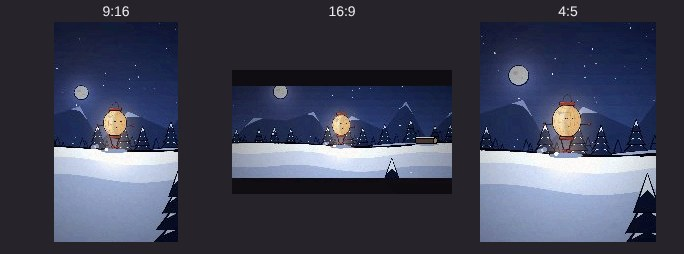
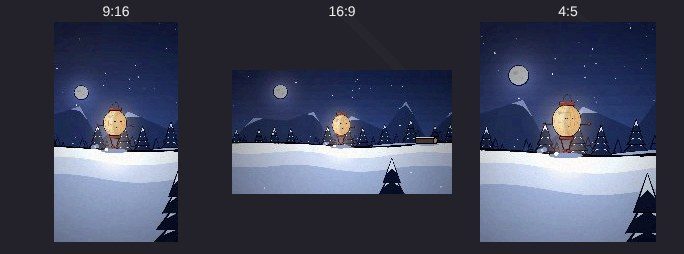
Visual quality: every style renders full frame; letterbox only on explicit request
- look.js: cinematic no longer letterboxes; no style enables letterbox by default
  (a warning if one does). Bars only via set: { letterbox: <ratio> }. Cinematic
  grade, light, vignette, texture, haze and camera polish are unchanged.
- Tests: barCheck (shared harness) FAILs letterbox bars, reported by the page or
  seen as flat near-black bands on opposite edges, in aspect_test and look_test
  (--letterbox for stories that asked for bars).
- Verified: Lumo --look=cinematic full-bleed at 16:9 (1920x1080), 9:16 and 4:5
  framing unchanged; docs, sheets and CLAUDE.md updated.

Claude-Session: https://claude.ai/code/session_012UqY2S9QTKXZvNUuYupQ2E

Changed region(s): [[0.3377, 0.689, 0.6754, 0.7717], [0.3377, 0.2756, 0.6754, 0.3583]]

diff --git a/src/look.js b/src/look.js
@@ -6,7 +6,8 @@
 //
 // Choosing (the Creative Director's call, as data):
 //   PROJECT.look = 'cinematic'                                            a style by name
-//   PROJECT.look = { style: 'watercolor', off: ['letterbox', 'haze'], set: { vignette: { amt: .2 }, glow: 1.2 } }
+//   PROJECT.look = { style: 'watercolor', off: ['haze'], set: { vignette: { amt: .2 }, glow: 1.2 } }
+//   PROJECT.look = { style: 'cinematic', set: { letterbox: 2.39 } }        bars only when a story asks for them explicitly
 //   ?look=documentary on the page, --look=documentary on render.mjs      (overrides, e.g. for before/after sheets)
 //   chooseLook({ subject: 'data' | 'product' | 'nature' | 'drama' | 'news' | 'kids' | 'abstract', characters, tone })
 // Without a look a project renders exactly as before ('classic').
@@ -14,7 +15,9 @@
 // Effects (each can be turned off by name or retuned with set):
 //   grade { contrast, saturate, brightness }   tint { color, amt }   light { amt, color, shade, from: [fx, fy] }
 //   paper (texture strength)   grain (strength)   vignette { amt, color }   haze { amt, color: 'auto' | colour }
-//   glow (× glow() strength)   shadow (× actor contact-shadow opacity)   letterbox (target ratio, wide formats only)
+//   glow (× glow() strength)   shadow (× actor contact-shadow opacity)
+//   letterbox: OFF in every style; every frame renders full-bleed, edge to edge. Only an explicit
+//     set: { letterbox: 2.39 } adds bars (target ratio, wide formats only). No style may turn it on by default.
 //   camera { handheld (px at 1080), breathe (zoom amount), shake (× landing shake) }
 const LOOK_STYLES = {
   classic: {},   // the engine's original finish: paper under the scene, grain and vignette baked together
@@ -26,7 +29,7 @@ const LOOK_STYLES = {
     paper: .06, grain: .35, vignette: { amt: .14, color: '#3E3448' }, haze: { amt: .22 }, glow: 1.1 },
   cinematic: { grade: { contrast: 1.12, saturate: .92 }, tint: { color: '#1F3D5C', amt: .16 },
     light: { amt: .3, color: '#FFB46A', shade: '#18304F', from: [.22, .12] }, grain: .55, vignette: { amt: .48, color: '#120E18' },
-    haze: { amt: .38 }, glow: 1.3, shadow: 1.15, letterbox: 2.39, camera: { handheld: 1.5, breathe: .012, shake: .8 } },
+    haze: { amt: .38 }, glow: 1.3, shadow: 1.15, camera: { handheld: 1.5, breathe: .012, shake: .8 } },
   documentary: { grade: { contrast: 1.04, saturate: .88 }, light: { amt: .08, color: '#FFF4E2', shade: '#4A4A52', from: [.5, 0] },
     grain: .8, vignette: { amt: .2, color: '#24222A' }, haze: { amt: .2 }, glow: .85, camera: { handheld: 4, shake: 1.2 } },
   infographic: { grade: { contrast: 1.03, saturate: 1.05 }, grain: 0, glow: .6, shadow: .6, camera: { shake: 0 } },
@@ -35,6 +38,7 @@ const LOOK_STYLES = {
   product: { grade: { contrast: 1.07, saturate: 1.04 }, light: { amt: .18, color: '#FFF8EE', shade: '#2E3140', from: [.5, -.05] },
     grain: .15, vignette: { amt: .36, color: '#15161C' }, glow: 1.2, shadow: 1.3, camera: { breathe: .01, shake: .5 } },
 };
+for (const [k, s] of Object.entries(LOOK_STYLES)) if (s.letterbox) console.warn(`look style "${k}" turns letterbox on by default; styles must render full-frame`);
 const LOOK_EFFECTS = ['grade', 'tint', 'light', 'paper', 'grain', 'vignette', 'haze', 'glow', 'shadow', 'letterbox', 'camera'];
 
 // The Creative Director's helper: a style from a short brief. Plain rules, easy to extend; the story can still override.
@@ -63,7 +67,8 @@ const LOOK = (() => {
     glow: st.glow ?? 1, shadow: st.shadow ?? 1, letterbox: st.letterbox || 0, camera: { handheld: 0, breathe: 0, shake: 1, ...st.camera } };
 })();
 
-// Letterbox bar height (px): only on frames wider than tall that are less wide than the target ratio. Tall formats never
+// Letterbox bar height (px), 0 unless the story explicitly set letterbox: only on frames wider than tall that are less
+// wide than the target ratio. Tall formats never
 // get bars (they would waste a phone screen); safeArea() in responsive.js keeps characters and text clear of the bars.
 const lookBars = () => LOOK.letterbox && W > H && W / H < LOOK.letterbox ? Math.round((H - W / LOOK.letterbox) / 2) : 0;
 

diff --git a/docs/VISUAL_QUALITY.md b/docs/VISUAL_QUALITY.md
@@ -5,7 +5,7 @@ Each story chooses a **look** (a visual style). The shared engine then finishes 
 - texture and vignette;
 - atmospheric depth;
 - glow and contact shadows;
-- letterboxing;
+- letterboxing, only when a story asks for it (off in every style; every frame is full-bleed by default);
 - camera polish.
 
 A new story gets all of this by naming a style. It needs no new code.
@@ -19,7 +19,7 @@ A new story gets all of this by naming a style. It needs no new code.
 | paper texture, grain, vignette | world themes (what the place looks like) |
 | atmospheric depth: far world layers fade toward the theme's own sky colour | camera keys (where the shot looks), acting, timing |
 | glow strength (`glow()`), contact-shadow strength (actors) | one-off effects (a firefly, a shooting star) |
-| letterbox bars (wide formats only), with safe areas moved clear of them | text content and its layout per format |
+| optional letterbox bars (off by default; wide formats only, with safe areas moved clear of them) | text content and its layout per format |
 | camera polish: handheld drift, slow breathing push, landing-shake strength | |
 | existing systems it builds on: stage camera framing, actor shadow/dust/light, `glow()`, parallax, responsive safe areas | |
 
@@ -33,7 +33,7 @@ A look never draws characters, worlds or props, so it can't change a design or b
 | `watercolor` | storybook, nature, gentle | warm key light, paper texture, soft vignette, strong atmospheric depth |
 | `collage` | craft, scrapbook | heavy paper texture, richer colour, firmer contact shadows, little haze |
 | `illustration` | clean 2D animation | slightly crisper contrast and colour, light grain, gentle key light and depth |
-| `cinematic` | drama, night, trailers | contrast, teal shade and warm key light, deep vignette, stronger glow, 2.39 letterbox (16:9 only), breathing camera, slight handheld |
+| `cinematic` | drama, night, trailers | contrast, teal shade and warm key light, deep vignette, stronger glow, breathing camera, slight handheld; full frame, no bars |
 | `documentary` | news, explainers with real-world framing | muted colour, visible grain, handheld drift, stronger landing shake |
 | `infographic` | data, charts, explainers | clean: no grain, paper or vignette, soft glow, no camera shake |
 | `abstract` | music, mood, loops | saturated colour, coloured key light, strong glow, slow breathing push |
@@ -45,7 +45,9 @@ A look never draws characters, worlds or props, so it can't change a design or b
 // a story's config.js
 const PROJECT = { ..., look: 'cinematic' };
 // or, with effects disabled or retuned for this story:
-const PROJECT = { ..., look: { style: 'watercolor', off: ['letterbox', 'haze'], set: { vignette: { amt: .2 }, glow: 1.2 } } };
+const PROJECT = { ..., look: { style: 'watercolor', off: ['haze'], set: { vignette: { amt: .2 }, glow: 1.2 } } };
+// letterbox bars, only when a story explicitly asks (no style turns them on):
+const PROJECT = { ..., look: { style: 'cinematic', set: { letterbox: 2.39 } } };
 ```
 
 - `chooseLook({ subject, tone, genre, characters })` picks a style from a short brief. For example, `{ subject: 'data' }` gives `infographic`, `{ tone: 'suspense' }` gives `cinematic`, and `{ subject: 'kids' }` gives `watercolor`. An automatic planner can use it; a story can always override it.
@@ -59,7 +61,7 @@ Add an entry to `LOOK_STYLES` in `src/look.js`, using only the effect fields. Th
 ## How it adapts automatically
 
 - **Atmospheric depth:** fades toward the world theme's own sky colour (`palette.haze`, `skyLow` or `sky`), so a snowy night hazes blue and a meadow hazes pink-cream. It touches only far parallax layers.
-- **Letterbox:** applied only to frames wider than the target ratio, never to 9:16 or 4:5. `safeArea()` shrinks to keep clear of the bars, so the stage camera re-frames the character instead of cropping it.
+- **Full frame by default:** every style, `cinematic` included, fills the canvas edge to edge in all three formats (1920 × 1080 at 16:9). Letterboxing is an optional effect, enabled only by `set: { letterbox: <ratio> }`. Then it applies only to frames wider than tall, and `safeArea()` shrinks to keep characters and text clear of the bars. A style that turns letterboxing on by default logs a warning, and the tests FAIL it.
 - **Camera polish:** applies to every camera (`camBegin`), whether from the stage or a preset. It is deterministic: smooth sine drift, with no randomness.
 - **Glow and shadows:** scale the existing systems (`glow()`, actor `fx.shadow`), keeping each story's own colours.
 - **Cost:** effects that are off cost nothing, and the rest are a few 2D canvas operations per frame. Everything is a pure function of time, so it's safe for parallel batch rendering.
@@ -82,7 +84,8 @@ The BEFORE column is always `classic`. Each frame is checked:
 | page errors | FAIL |
 | more than 4 % of the frame crushed to black or blown to white, and worse than before | FAIL |
 | the character's colours shift too far from the original (identity) | FAIL above 60, NEEDS_REVIEW above 38 (RGB distance) |
-| a character or text leaves the safe area (e.g. under letterbox bars) | FAIL |
+| a character or text leaves the safe area | FAIL |
+| letterbox / black bars: reported by the page, or flat near-black bands along both opposite edges | FAIL (unless `--letterbox`, for a story that asked for bars) |
 | flat, low-contrast frame | NEEDS_REVIEW |
 | the character separates from its surroundings much less than before | NEEDS_REVIEW |
 
@@ -94,11 +97,11 @@ Output: `out/look/<target>_<aspect>.jpg` sheets and `report.md` (contrast, satur
 
 | target | looks | result | sheet |
 |---|---|---|---|
-| Lumo (`phase2_lumo`) | classic, watercolor, cinematic | PASS; classic identical to before | [before/after](look/lumo_before_after.jpg), [cinematic in 3 formats](look/lumo_cinematic_3ratios.jpg) |
+| Lumo (`phase2_lumo`) | classic, watercolor, cinematic | PASS; classic identical to before | [before/after](look/lumo_before_after.jpg), [cinematic in 3 formats, full frame](look/lumo_cinematic_3ratios.jpg) |
 | Pip (`phase1_demo`) | classic, illustration, documentary | PASS; classic identical to before | [before/after](look/pip_before_after.jpg) |
 | `look_infographic` (no characters) | classic, infographic, abstract | PASS in 9:16, 16:9 and 4:5 | [before/after](look/infographic_before_after.jpg), [3 formats](look/infographic_3ratios.jpg) |
 | `type_demo` | classic, infographic, collage | PASS | [before/after](look/type_before_after.jpg) |
-
 | `look_infographic` | classic, product, collage | PASS. The first `product` run FAILed with 14 % of the frame blown out on a light background; its brightness boost was removed and its key light and contrast softened, and it now PASSes (1.3 % clipped) | [sheet](look/infographic_product_collage.jpg) |
+| Lumo, full-frame recheck after letterboxing became opt-in | cinematic in 9:16, 16:9 and 4:5 | PASS, no bars; 16:9 fills 1920 × 1080; 9:16 and 4:5 framing unchanged | [3 formats](look/lumo_cinematic_3ratios.jpg) |
 
 Existing projects keep `classic` until their config chooses a look. Styles only tested on some targets (for example `product` on the infographic, not yet on a character scene): run `look_test` on the new kind of scene before relying on them.

diff --git a/CLAUDE.md b/CLAUDE.md
@@ -21,7 +21,8 @@ Read ANIMATION_GUIDE.md first. Multi-aspect rules: docs/ASPECT_RATIOS.md. Visual
 
 ## Visual quality: a look per story, never per-story finishing code
 
-- The finish (grade, light, texture, vignette, depth haze, glow and shadow strength, letterbox, camera polish) comes from `src/look.js`.
+- The finish (grade, light, texture, vignette, depth haze, glow and shadow strength, camera polish) comes from `src/look.js`.
+- Every style renders full frame, edge to edge, in every format. Letterbox bars are never on by default; only a story's explicit `set: { letterbox: <ratio> }` adds them. The tests FAIL black bars.
 - A story picks a style in its config: `look: 'cinematic'` or `{ style, off: [...], set: {...} }`. See docs/VISUAL_QUALITY.md.
 - Don't hand-tune those effects inside a story. If a style needs to change, change `LOOK_STYLES` and re-run `node tools/look_test.mjs`.
 - Story-specific: palette, characters, world theme, camera keys, acting. A look never changes these.
